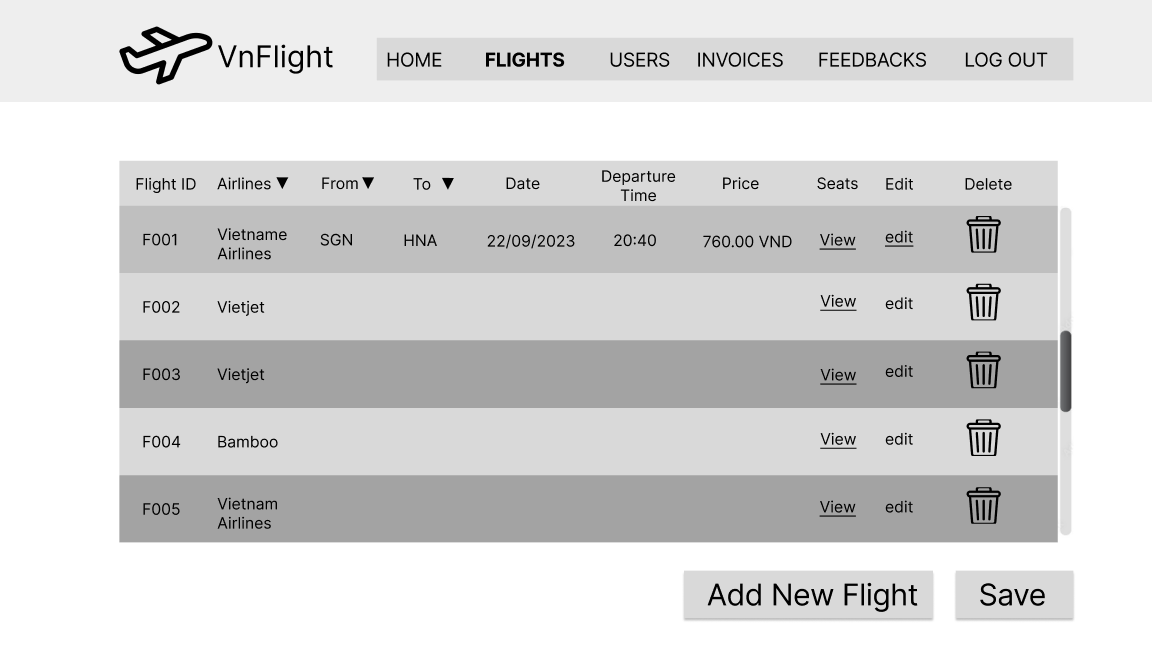
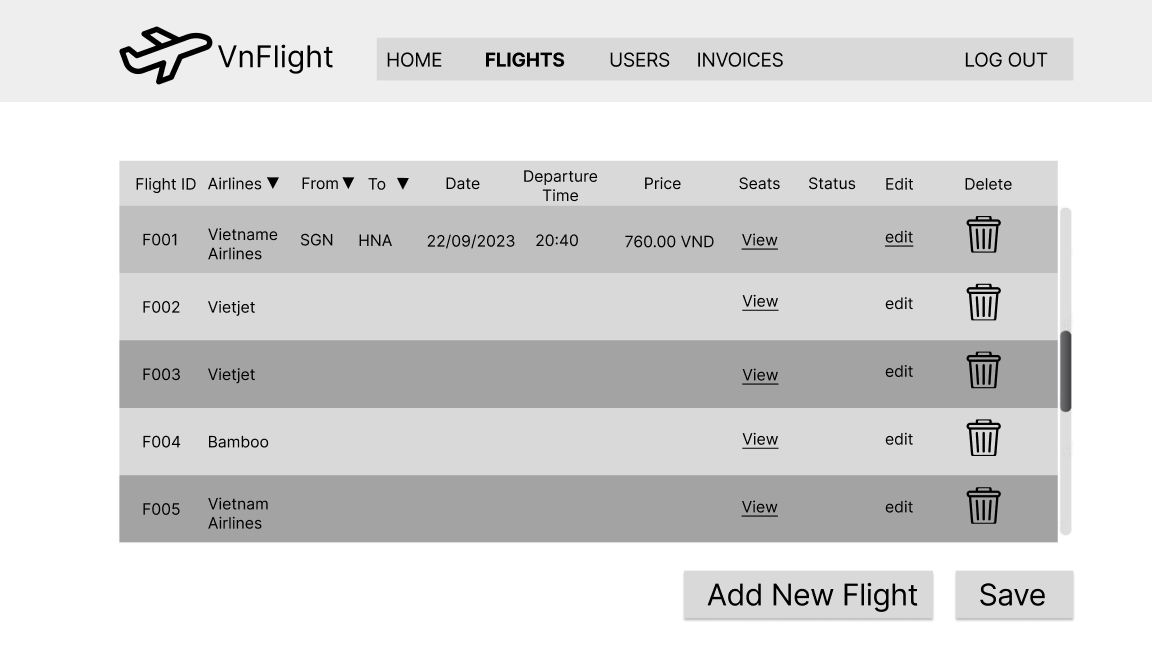
Huy

diff --git a/Readme.md b/Readme.md
@@ -48,19 +48,16 @@
     d. Flight booking + Seat selection:
 
     - Select one flight for booking.
-    - Fill in passenger information, select seat for each passenger (required) and choose luggage weight (optional).
-    - Buy ticket for "more than one" passengers by clicking "Add Passenger" button.
-    - Show total price after providing passengers' information.
-    - Confirm buying ticket(s) by clicking "Purchase" (log-in necessity).
+    - Fill in passenger ticket information, select seat for each passenger (required) and choose luggage weight (optional).
+    - Buy ticket for "more than one" passengers by clicking "Add Passenger Ticket" button.
+    - Show total price after providing passenger tickets' information.
+    - Confirm buying ticket(s) by clicking "Purchase" (log-in necessity) or Save without purchase.
 
     e. Booking history:
 
     - View your booking history.
-    - Edit passenger information.
-
-    f. Feedback:
-
-    - Send feedback to admin.
+    - Confirm purchase for saved invoices.
+    - Edit passenger ticket information.
 
   - **Admin:**
 
@@ -78,12 +75,7 @@
     c. Manage invoices:
 
     - View invoices.
-    - Calculate revenue in day, month or year.
-
-    d. Read feedbacks:
-
-    - Read all feedbacks from users.
-    - Filter feedbacks by username or phone number.
+    - Calculate revenue in day, month or year. -
 
 ---
 
@@ -99,16 +91,14 @@
   5. **Change password:**![Alt text](Wireframe/Change%20Password.png)
   6. **Search flights:**![Alt text](Wireframe/Search%20Flights.png)
   7. **Flight details:**![Alt text](Wireframe/Flight%20Details.png)
-  8. **Passenger information, seat selection and purchase:**![Alt text](Wireframe/Passenger%20Info%20and%20Seat%20Booking.png)
+  8. **Passenger ticket information, seat selection and purchase:**![Alt text](Wireframe/Passenger%20Info%20and%20Seat%20Booking.png)
   9. **Booking history:**![Alt text](Wireframe/Booking%20History.png)
-  10. **Feedback:**![Alt text](Wireframe/Feedback.png)
 - ## Admin wireframe:
   1. **Login as admin:**![Alt text](Wireframe/Admin%20login.png)
   2. **Admin Homepage:**![Alt text](Wireframe/ADMIN%20HOMEPAGE.png)
   3. **Flight management:**![Alt text](Wireframe/Flights%20Admin.png)
   4. **User management:**![Alt text](Wireframe/Users%20Admin.png)
   5. **Invoice management:**![Alt text](Wireframe/Invoices%20Admin.png)
-  6. **Read feedbacks:**![Alt text](Wireframe/Read%20Feedbacks%20Admin.png)
 
 ---
 
